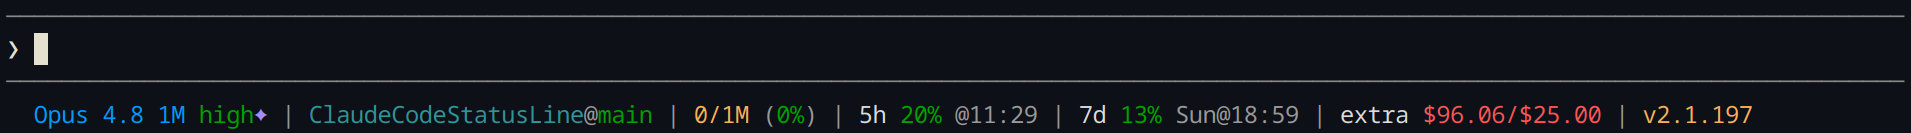
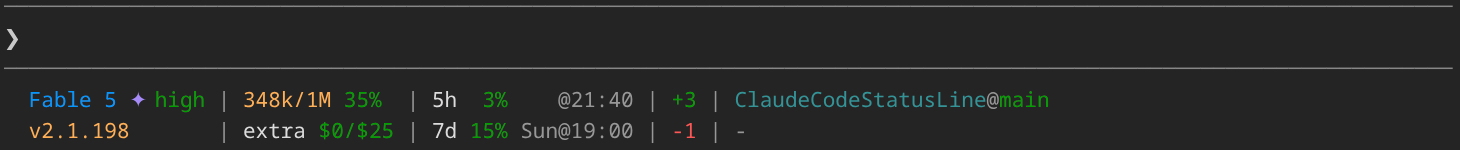
docs: two-line screenshot + screenshot caption in README

diff --git a/README.md b/README.md
@@ -6,7 +6,9 @@ A custom status line for [Claude Code](https://claude.com/claude-code) that disp
 
 ## Screenshot
 
-![Status Line Screenshot](screenshot.png)
+![The two-line status line rendered in a terminal](screenshot.png)
+
+Both lines render below the Claude Code input box; the pipes stay aligned as the values change.
 
 ## What it shows
 
